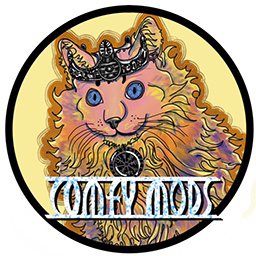
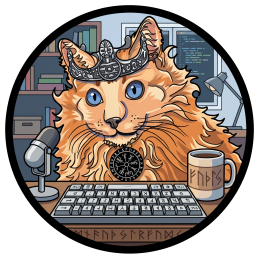
Update RemoteWork to `v1.2.0`.
* Fixed for the `v1.0.16` patch.
* Migrated to SDK-style project.
* Updated mod icon.

diff --git a/RemoteWork/Core/CommandUtils.cs b/RemoteWork/Core/CommandUtils.cs
@@ -1,4 +1,4 @@
-namespace RemoteWork;
+namespace RemoteWork;
 
 public static class CommandUtils {
   public static readonly char[] SpaceSeparator = [' '];
@@ -9,7 +9,7 @@ public static class CommandUtils {
     if (parts.Length >= 1
         && !string.IsNullOrEmpty(parts[0])
         && Terminal.commands.TryGetValue(parts[0].ToLowerInvariant(), out Terminal.ConsoleCommand consoleCommand)) {
-      RunCommand(rpc, consoleCommand, new Terminal.ConsoleEventArgs(command, Console.instance));
+      RunCommand(rpc, consoleCommand, new Terminal.ConsoleEventArgs(command, Console.instance, consoleCommand));
     } else {
       rpc.RemotePrint($"Invalid command: {command}");
     }

diff --git a/RemoteWork/RemoteWork.cs b/RemoteWork/RemoteWork.cs
@@ -1,4 +1,4 @@
-namespace RemoteWork;
+namespace RemoteWork;
 
 using System;
 using System.Globalization;
@@ -15,7 +15,7 @@ using static PluginConfig;
 public sealed class RemoteWork : BaseUnityPlugin {
   public const string PluginGuid = "redseiko.valheim.remotework";
   public const string PluginName = "RemoteWork";
-  public const string PluginVersion = "1.1.0";
+  public const string PluginVersion = "1.2.0";
 
   static ManualLogSource _logger;
 

diff --git a/RemoteWork/Properties/AssemblyInfo.cs b/RemoteWork/Properties/AssemblyInfo.cs
@@ -1,4 +1,4 @@
-using System.Reflection;
+using System.Reflection;
 using System.Runtime.InteropServices;
 
 [assembly: AssemblyTitle("RemoteWork")]

diff --git a/RemoteWork/CHANGELOG.md b/RemoteWork/CHANGELOG.md
@@ -1,5 +1,11 @@
 ## Changelog
 
+### 1.2.0
+
+  * Fixed for the `v1.0.16` patch.
+  * Migrated to SDK-style project.
+  * Updated mod icon.
+
 ### 1.1.0
 
   * Fixed for the `v0.220.3` patch.
